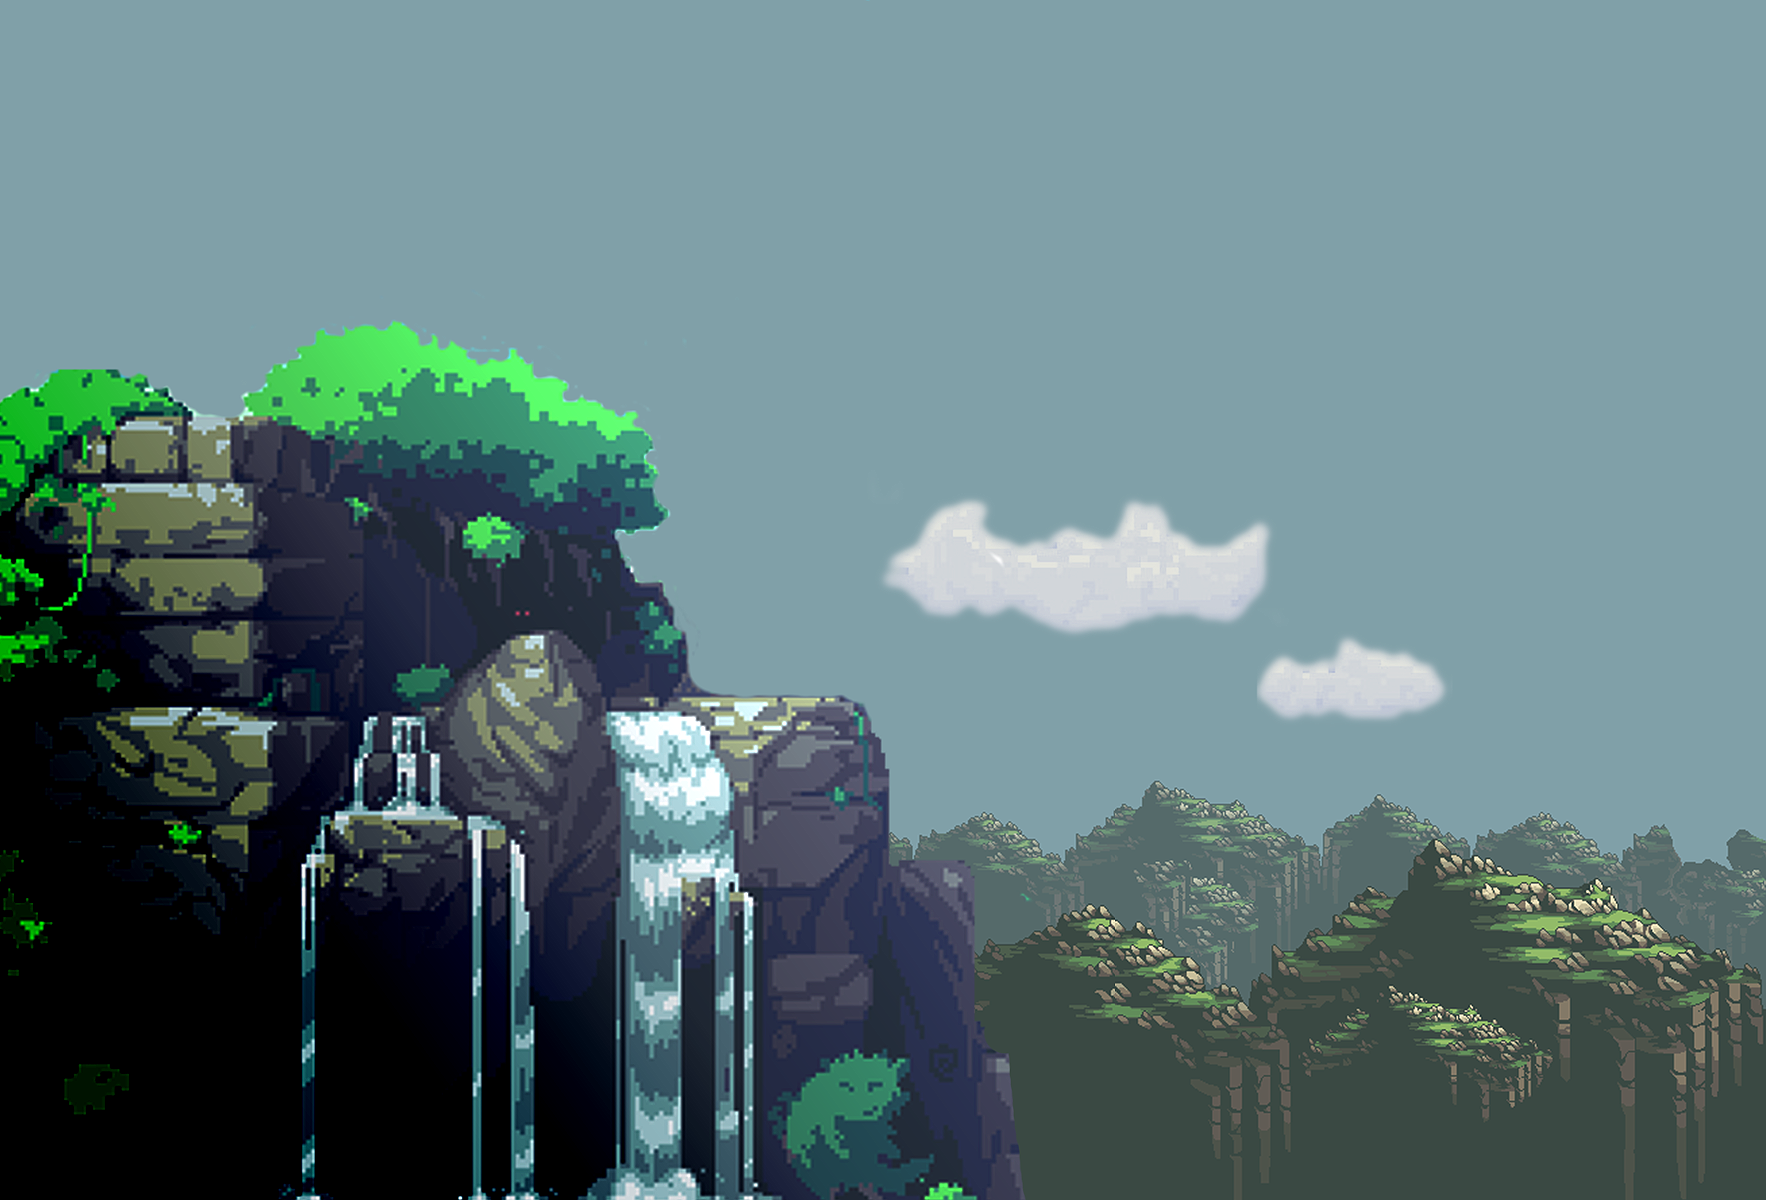
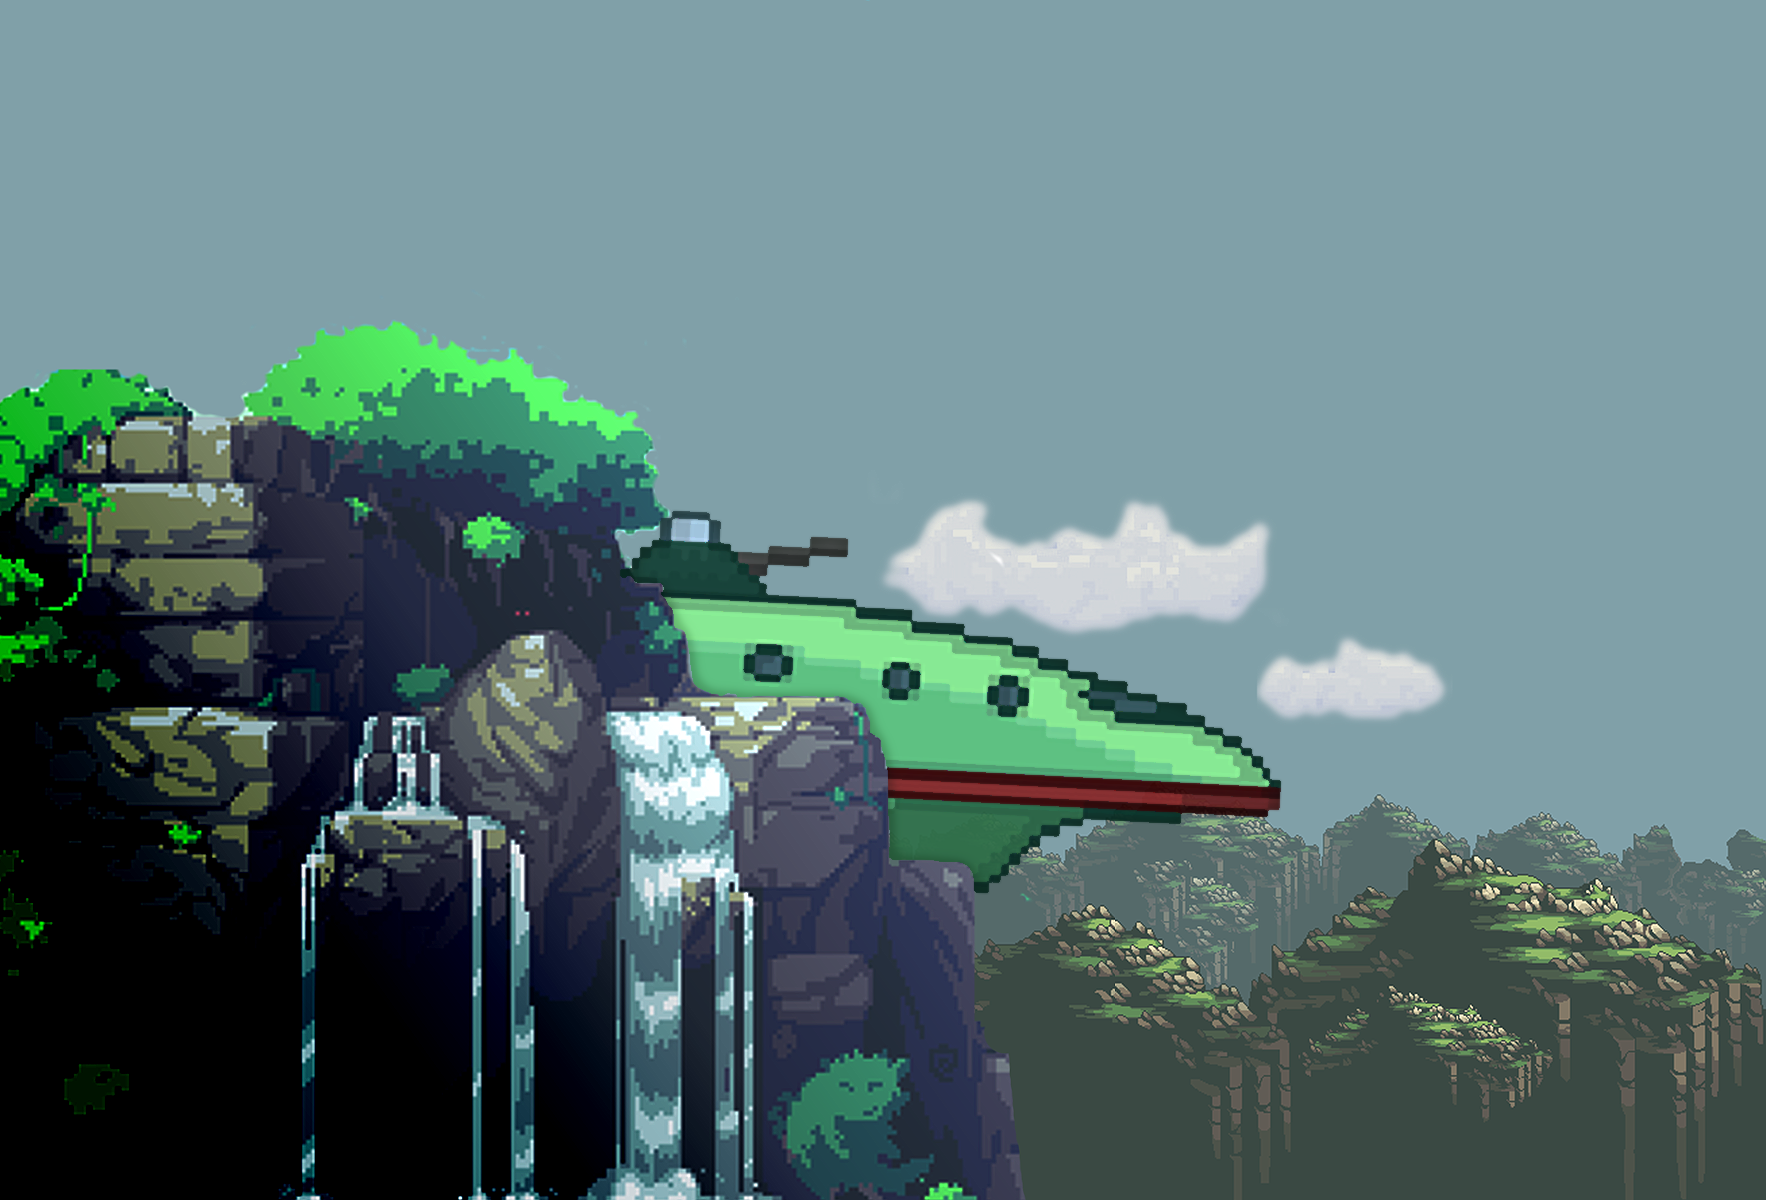
Add some sprites and other correction

Changed region(s): [[0.3426, 0.4008, 0.7475, 0.74]]

diff --git a/DungeonPlanet/DungeonPlanet/DungeonPlanetGame.cs b/DungeonPlanet/DungeonPlanet/DungeonPlanetGame.cs
@@ -23,6 +23,11 @@ namespace DungeonPlanet
         private Texture2D _hubBackground002;
         private Texture2D _hubBackground003;
 
+        private SpriteObject _cat;
+        private SpriteObject _nugget;
+        private Sprite _setOfBullet;
+        private Sprite _setOfFood;
+
         private Texture2D _tileTexture, _playerTexture, _enemyTexture, _enemyTexture2, _bossTexture, _weaponTexture, _bulletTexture, _bulletETexture;
         private Texture2D _mediTexture, _bombTexture, _shieldTexture;
         private Texture2D _fireTexture, _fireBossTexture;
@@ -120,8 +125,12 @@ namespace DungeonPlanet
             Texture2D tankFirewave = Content.Load<Texture2D>("TankFirewave");
             Texture2D narrator = Content.Load<Texture2D>("NPCNarrator");
             Texture2D marchand = Content.Load<Texture2D>("NPCMerchand");
+            Texture2D cat = Content.Load<Texture2D>("Cat");
+            Texture2D nugget = Content.Load<Texture2D>("Nugget");
+            Texture2D bullet = Content.Load<Texture2D>("ItemSetBullet");
+            Texture2D food = Content.Load<Texture2D>("ItemSetFood");
             _enemyTexture = Content.Load<Texture2D>("enemy");
-            _enemyTexture2 = Content.Load<Texture2D>("enemy2");
+            _enemyTexture2 = Content.Load<Texture2D>("skeleton");
             _bossTexture = Content.Load<Texture2D>("Tank");
             _weaponTexture = Content.Load<Texture2D>("playerGun");
             _bulletTexture = Content.Load<Texture2D>("bullet");
@@ -140,10 +149,17 @@ namespace DungeonPlanet
             _enemy2 = new Enemy(_enemyTexture2, new Vector2(400, 100), _spriteBatch, "DIST", _fireTexture, _weaponTexture, _bulletETexture, this);
             _boss = new Boss(tankBullet, tankFirewave, _bossTexture, new Vector2(1360, 200), _spriteBatch, _fireBossTexture);
             _mediPack = new MediPack(_mediTexture, new Vector2(300, 300), _spriteBatch, 45, _player);
+
             _NPCMarchand = new NPCMarchand(marchand, new Vector2(500, 200), _spriteBatch);
-            _NPCWeapon = new NPCWeapon(weapon, new Vector2(250, 200), _spriteBatch);
-            _NPCWise = new NPCTheWise(theWise, new Vector2(1300, 200), _spriteBatch);
-            _NPCNarrator = new NPCNarrator(narrator, new Vector2(1500, 200), _spriteBatch);
+            _NPCWeapon = new NPCWeapon(weapon, new Vector2(350, 200), _spriteBatch);
+            _NPCWise = new NPCTheWise(theWise, new Vector2(750, 200), _spriteBatch);
+            _NPCNarrator = new NPCNarrator(narrator, new Vector2(1000, 200), _spriteBatch);
+
+            _cat = new SpriteObject(cat, new Vector2(1020, 200), _spriteBatch, 28, 16, 6, 210);
+            _nugget = new SpriteObject(nugget, new Vector2(972, 200), _spriteBatch, 18, 16, 10, 150);
+            _setOfFood = new Sprite(food, new Vector2(450, 535), _spriteBatch);
+            _setOfBullet = new Sprite(bullet, new Vector2(300, 545), _spriteBatch);
+
             _door = new Door[5];
             for (int x = 0; x < _door.Length; x++)
             {
@@ -173,7 +189,7 @@ namespace DungeonPlanet
 
             if (Level.ActualState == Level.State.Hub)
             {
-                MediaPlayer.Play(backgroundHubSong);
+                //MediaPlayer.Play(backgroundHubSong);
             }
 
             if (Level.ActualState == Level.State.Level)
@@ -226,7 +242,10 @@ namespace DungeonPlanet
                 _NPCMarchand.Update(gameTime);
                 _NPCWeapon.Update(gameTime);
                 _NPCWise.Update(gameTime);
+                _nugget.Update(gameTime);
                 _NPCNarrator.Update(gameTime);
+                _cat.Update(gameTime);
+
                 if (NPCTheWise.SingingLine != oldsing && NPCTheWise.SingingLine == "Allumer le feux !!! hey, tu sais tu peux acheter des munitions enflammees chez l armurier.")
                 {
                     MediaPlayer.Pause();
@@ -401,9 +420,13 @@ namespace DungeonPlanet
                 _spriteBatch.Draw(_hubBackground002, new Vector2(766, -550), Color.White);
                 _spriteBatch.Draw(_hubBackground003, new Vector2(2461, -550), Color.White);
                 _NPCWise.Draw();
+                _setOfBullet.Draw();
                 _NPCWeapon.Draw();
+                _setOfFood.Draw();
                 _NPCMarchand.Draw();
+                _nugget.Draw();
                 _NPCNarrator.Draw();
+                _cat.Draw();
 
                 for (int x = 0; x < (int)PlayerInfo.Progress; x++)
                 {
@@ -431,7 +454,7 @@ namespace DungeonPlanet
             _spriteBatch.End();
             _spriteBatch.Draw(_camera.Debug);
             UserInterface.Active.Draw(_spriteBatch);
-            _camera.Zoom = 1.25f;
+            _camera.Zoom = 1.35f;
             //_camera.Zoom = 0.5f;
         }
 

diff --git a/DungeonPlanet/DungeonPlanet/SpriteObject.cs b/DungeonPlanet/DungeonPlanet/SpriteObject.cs
@@ -1,0 +1,47 @@
+using System;
+using System.Collections.Generic;
+using System.Linq;
+using System.Text;
+using System.Threading.Tasks;
+using Microsoft.Xna.Framework;
+using Microsoft.Xna.Framework.Graphics;
+using DungeonPlanet.Library;
+using GeonBit.UI.Entities;
+using GeonBit.UI;
+
+namespace DungeonPlanet
+{
+    public class SpriteObject : Sprite
+    {
+        SpriteBatch _spritebatch;
+        Animation _animation;
+        Header _header;
+        EnemyLib ReferenceLib { get; set; }
+
+        public SpriteObject(Texture2D texture, Vector2 position, SpriteBatch batch, int frameWidth, int frameHeight, int frameCount, int frameTime)
+            : base(texture, position, batch)
+        {
+            ReferenceLib = new EnemyLib(new System.Numerics.Vector2(position.X, position.Y), texture.Width, texture.Height, 100);
+            _animation = new Animation();
+            _animation.Initialize(texture, position, frameWidth, frameHeight, 0, 0, frameCount, frameTime, Color.White, 1, true, true);
+            _spritebatch = batch;
+        }
+
+        public void Update(GameTime gameTime)
+        {
+            _animation.Update(gameTime);
+            _animation.Position = new Vector2(ReferenceLib.Position.X, ReferenceLib.Position.Y+10);
+
+            ReferenceLib.AffectWithGravity();
+            ReferenceLib.SimulateFriction();
+            ReferenceLib.MoveAsFarAsPossible((float)gameTime.ElapsedGameTime.TotalMilliseconds / 15);
+            ReferenceLib.StopMovingIfBlocked();
+            position = new Vector2(ReferenceLib.Position.X, ReferenceLib.Position.Y);
+        }
+    
+        public override void Draw()
+        {
+            _animation.Draw(SpriteBatch);
+        }
+    }
+}

diff --git a/DungeonPlanet/DungeonPlanet/NPCNarrator.cs b/DungeonPlanet/DungeonPlanet/NPCNarrator.cs
@@ -27,9 +27,9 @@ namespace DungeonPlanet
         public NPCNarrator(Texture2D texture, Vector2 position, SpriteBatch spriteBatch)
             : base(texture, position, spriteBatch)
         {
-            ReferenceLib = new EnemyLib(new System.Numerics.Vector2(position.X, position.Y), texture.Width, texture.Height, 100);
+            ReferenceLib = new EnemyLib(new System.Numerics.Vector2(position.X, position.Y), texture.Width-550, texture.Height, 100);
             _animation = new Animation();
-            _animation.Initialize(texture, position, 58, 58, 0, 0, 10, 100, Color.White, 1, true, true);
+            _animation.Initialize(texture, position, 60, 58, 0, 0, 10, 100, Color.White, 1, true, true);
             _spritebatch = spriteBatch;
             _player = Player.CurrentPlayer;
             Lib = new NPCDialogLib();
